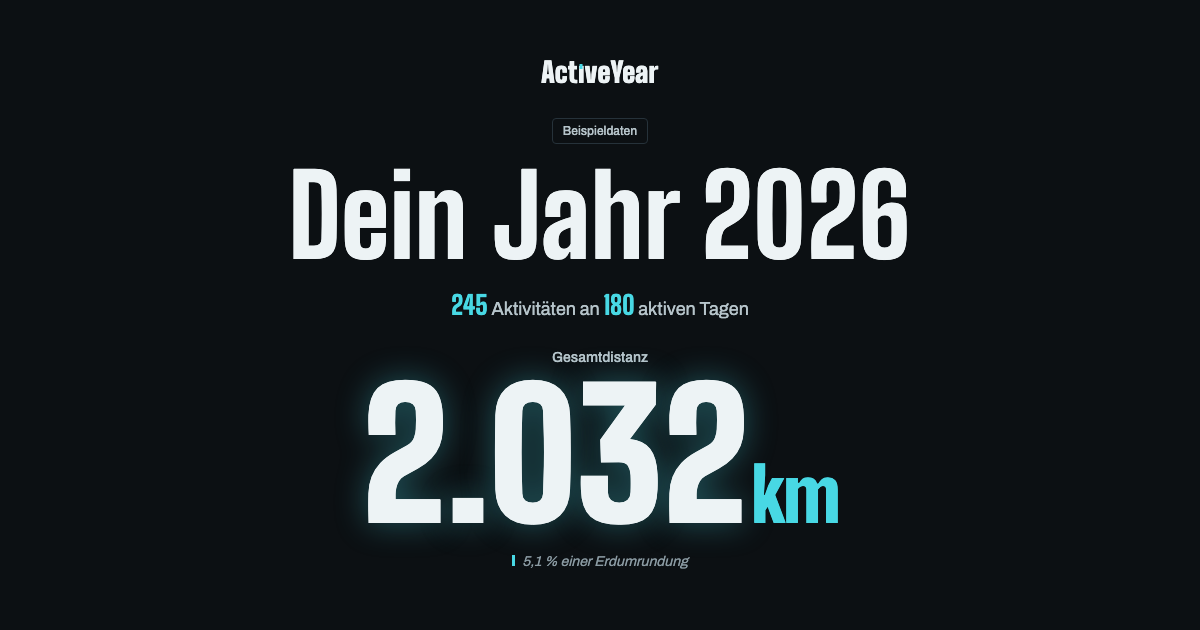
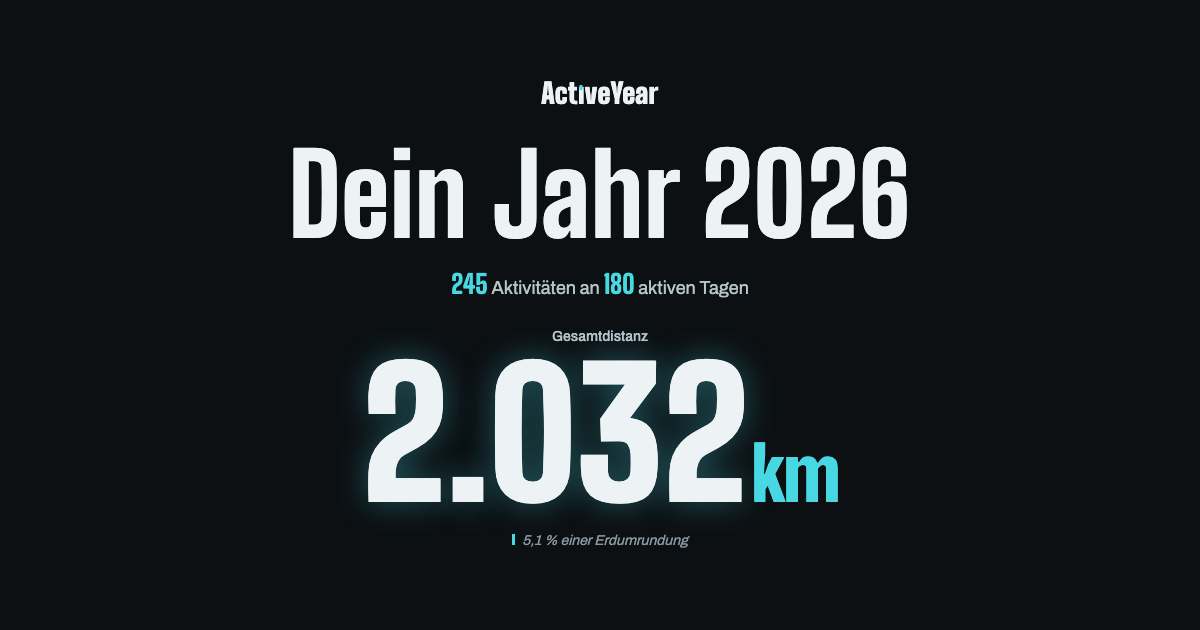
fix: keep the demo tag out of the social preview images

Changed region(s): [[0.2467, 0.0905, 0.7708, 0.9048]]

diff --git a/scripts/og-image.ts b/scripts/og-image.ts
@@ -10,7 +10,7 @@ const baseUrl = process.argv[2] ?? `http://localhost:${PREVIEW_PORT}`;
 
 // Keeps only the header and the totals board, centred in the frame, without the layout's top bars.
 const COMPOSITION_CSS = `
-	main > div > :not(:has(> header), [data-testid='main-stats']), header > button, [data-testid='main-stats'] dl,
+	main > div > :not(:has(> header), [data-testid='main-stats']), header > button, [data-testid='demo-data-tag'], [data-testid='main-stats'] dl,
 	body .absolute.top-4 {
 		display: none !important;
 	}

diff --git a/src/lib/components/dashboard/DashboardHeader.svelte b/src/lib/components/dashboard/DashboardHeader.svelte
@@ -56,7 +56,7 @@
 <header class="mt-12 mb-12 text-center md:mt-8 md:mb-14">
 	<Logotype class="mb-8 text-[1.75rem]" />
 	{#if demo}
-		<p class="mb-4">
+		<p class="mb-4" data-testid="demo-data-tag">
 			<span
 				class="inline-block rounded-[var(--radius-control)] border border-[var(--color-border)] px-2.5 py-1 text-xs font-medium text-[var(--color-text-muted)]"
 				>{i18n.m.dashboard.demoData}</span
